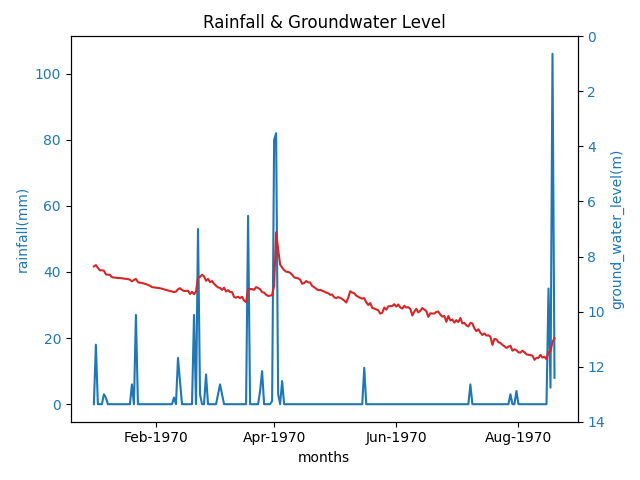
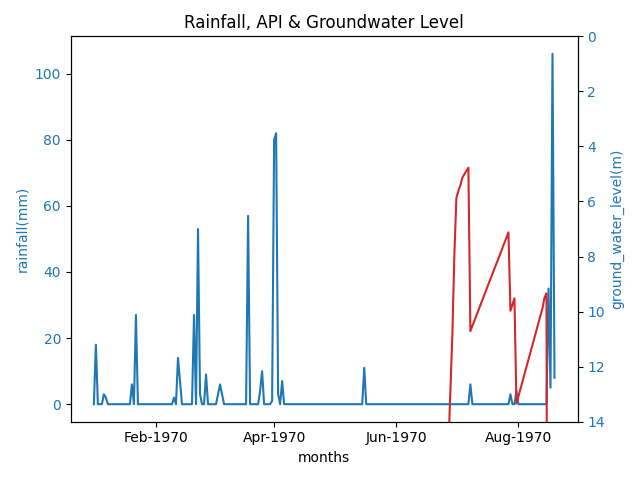
succesfully coded parallel

diff --git a/ML/main.py b/ML/main.py
@@ -1,17 +1,19 @@
 import config
 import multiprocessing
-import preprocess
 from model import Model
+from preprocess import Preprocessing
 from postprocess import Postprocessing
 import pandas as pd
 import numpy as np
-import pickle
+from sklearn.preprocessing import StandardScaler
 
-def run_model1(Preprocessing, Postprocessing):
+def run_model1(Preprocessing, Postprocessing, out_flag):
     
     # Load data
-    data = Preprocessing.load_data('Input/rf_api_90days.csv')
-    print(data)
+    Preprocessing = Preprocessing()
+    cols_to_use = ['date','rainfall','gwl']
+    data = Preprocessing.load_data(config.DATA_FILE, cols_to_use)
+    # print(data)
     
     # Normalize data
     data_scaled, scaler = Preprocessing.normalize_data()
@@ -42,7 +44,7 @@ def run_model1(Preprocessing, Postprocessing):
     predicted = predicted.reshape(-1, predicted.shape[-1])
     observed = observed.reshape(-1, observed.shape[-1])
     
-    print(observed.shape, predicted.shape)
+    # print(observed.shape, predicted.shape)
     predict_unscaled, observed_unscaled = Postprocessing.inverse_transform_data(predicted, observed)
 
      # Create DataFrame
@@ -52,14 +54,16 @@ def run_model1(Preprocessing, Postprocessing):
     df['gwl_prd'] = predict_unscaled[:, 1]
 
     # Plot data
-    Postprocessing.plot_data(df, 'Rainfall & Groundwater Level', 'months', 'rainfall(mm)', 'ground_water_level(m)', (14, 0))
+    Postprocessing.plot_data(df, 'Rainfall & Groundwater Level', 'months', 'rainfall(mm)', 'ground_water_level(m)', (14, 0), str(out_flag))
 
-def run_model2(Preprocessing, Postprocessing):
+def run_model2(Preprocessing, Postprocessing, out_flag):
     
     # Load data
-    data_with_date = Preprocessing.load_data(config.DATA_FILE)
+    # Preprocessing = Preprocessing()
+    cols_to_use= ['date','rainfall','gwl','api']
+    data_with_date = Preprocessing.load_data(config.DATA_FILE, cols_to_use)
     data = data_with_date[['rainfall', 'api', 'gwl']]
-    print(data)
+    # print(data)
 
     # Normalize data
     data_scaled,scaler = Preprocessing.normalize_data()
@@ -79,17 +83,26 @@ def run_model2(Preprocessing, Postprocessing):
 
     # Make predictions
     test_predict = lstm.model.predict(test_X)
-    test_predict = np.reshape(test_predict, test_X.shape)
-    predicted = np.array((test_X, test_predict)).T
+    
+    # Combine test_X and test_predict_reshaped
+    test_X = np.reshape(test_X,(test_X.shape[0],test_X.shape[1]))
+    # print(test_X.shape)
+    predicted = np.concatenate((test_X, test_predict), axis=1)
+    # print(predicted.shape)
 
     # Inverse transform data
-    Postprocessing = Postprocessing(scaler)
-    test_Y= np.reshape(test_Y,test_X.shape)
-    observed = np.array((test_X, test_Y)).T
+    # Postprocessing = Postprocessing(scaler)
+    test_Y = np.reshape(test_Y, (test_X.shape[0], 1))
+    # print(test_Y.shape)
     
-    predicted = predicted.reshape(-1, predicted.shape[-1])
-    observed = observed.reshape(-1, observed.shape[-1])
-    
+    # Combine test_X and test_Y_reshaped
+    observed = np.concatenate((test_X, test_Y), axis=1)
+    # print(observed.shape)
+
+    # Reshape predicted and observed arrays
+    # predicted = predicted.reshape(-1, predicted.shape[-1])
+    # observed = observed.reshape(-1, observed.shape[-1])
+
     print(observed.shape, predicted.shape)
     predict_unscaled,observed_unscaled = Postprocessing.inverse_transform_data(predicted,observed)
 
@@ -102,13 +115,14 @@ def run_model2(Preprocessing, Postprocessing):
     df.index = data.index[Preprocessing.train_size:]
 
     # Plot data
-    Postprocessing.plot_data(df, 'Rainfall, API & Groundwater Level', 'months', 'rainfall(mm)', 'ground_water_level(m)')
+    Postprocessing.plot_data(df, 'Rainfall, API & Groundwater Level', 'months', 'rainfall(mm)', 'ground_water_level(m)',(14,0), str(out_flag))
 
 if __name__ == '__main__':
-    Preprocessing = preprocess.Preprocessing(config.DATA_FILE)
-    #run_model1(Preprocessing, Postprocessing)
-    run_model2(Preprocessing, Postprocessing)
+    # run_model1(Preprocessing, Postprocessing)
+    # run_model2(Preprocessing, Postprocessing)
     
-"""  with multiprocessing.get_context('spawn').Pool(2) as executor:
-        executor.starmap(run_model1, [(Preprocessing,)])
-        executor.starmap(run_model2, [(Preprocessing,)]) """
+    with multiprocessing.get_context('spawn').Pool(4) as executor:
+        executor.starmap(run_model1, [(Preprocessing,Postprocessing, 1), (Preprocessing, Postprocessing, 2)])
+        # executor.starmap(run_model2, [(Preprocessing,Postprocessing, 2)])
+        # executor.starmap(run_model1, [(Preprocessing,Postprocessing, 3)])
+        # executor.starmap(run_model2, [(Preprocessing,Postprocessing, 4)])  

diff --git a/ML/preprocess.py b/ML/preprocess.py
@@ -4,18 +4,18 @@ from sklearn.preprocessing import StandardScaler
 
 class Preprocessing:
     
-    def __init__(self, data_file):
+    def __init__(self):
         """
         Initializes the class with the given data file.
         """
-        self.data = self.load_data(data_file)
+        pass
 
-    def load_data(self,data_file):
+    def load_data(self, data_file, cols_to_use):
         """
         Loads the data from the given file and returns it as a pandas DataFrame.
         """
-        data = pd.read_csv(data_file, index_col='date', usecols=['date','rainfall','gwl','api'])
-        return data
+        self.data = pd.read_csv(data_file, index_col='date', usecols = cols_to_use)
+        return self.data
 
     def normalize_data(self):
         """

diff --git a/ML/postprocess.py b/ML/postprocess.py
@@ -17,7 +17,7 @@ class Postprocessing:
         observed_unscaled = self.scaler.inverse_transform(observed)
         return predict_unscaled, observed_unscaled
 
-    def plot_data(self, df, title, xlabel, ylabel1, ylabel2, ylim2):
+    def plot_data(self, df, title, xlabel, ylabel1, ylabel2, ylim2, out_path):
         """
         Plots the given data using matplotlib.
         """
@@ -40,5 +40,5 @@ class Postprocessing:
         plt.title(title)
         fig.tight_layout()  # otherwise the right y-label is slightly clipped
         #save as 2 different files
-        plt.savefig('Output/plot/lstm_rf_gwl.png')
+        plt.savefig(f'Output/plot/{out_path}.png')
         plt.show()

diff --git a/ML/model.py b/ML/model.py
@@ -19,4 +19,4 @@ class Model:
         """
         Trains the given model on the given training data.
         """
-        self.model.fit(train_X, train_Y, epochs=num_epochs, batch_size=batch_size, verbose=2)
+        self.model.fit(train_X, train_Y, epochs=num_epochs, batch_size=batch_size, verbose=0)

diff --git a/ML/README.md b/ML/README.md
@@ -1,7 +1,11 @@
-Groundwater Level Prediction - ML Model Testing and Validation 
-This repository contains code for testing and validating three machine learning models under the recurrent neural network (RNN) architecture: Long Short-Term Memory (LSTM), Bidirectional LSTM, and Attention LSTM. The models are used to predict groundwater levels based on rainfall and other derived variables. The goal is to understand how rainfall and derived variables  affect groundwater levels, which can be valuable for flood prediction and flood inundation mapping using multiple input options.
+# Groundwater Level Prediction
 
-### Input Data
+## ML Model Testing and Validation
+
+This repository contains code for testing and validating three machine learning models under the recurrent neural network (RNN) architecture: Long Short-Term Memory (LSTM), Bidirectional LSTM, and Attention LSTM. The models are used to predict groundwater levels based on rainfall and other derived variables. The goal is to understand how rainfall and derived variables affect groundwater levels, which can be valuable for flood prediction and flood inundation mapping using multiple input options.
+
+## Input Data
+
 + Rainfall data
 + Multiple APIs (5, 10, 60, 90, 120, 240 days)
 + Effective rainfall
@@ -9,24 +13,28 @@ This repository contains code for testing and validating three machine learning 
 + Summer decay factor
 + Effective rainfall
 
-### Normalization
+## Normalization
+
 + Standard scalar
 + Log scalar
 
-### Model performance metrics
+## Model performance metrics
+
 + The model performance metrics used in this project include:
 + Training Accuracy: Measures how well the model fits the training data. It is calculated as 1 minus the RMSE on the training set, converted to a percentage.
 + Testing Accuracy: Evaluates the model's performance on unseen data. Similar to training accuracy, it is calculated as 1 minus the RMSE on the testing set, converted to a percentage.
 + Test Score (RMSE): Computes the RMSE on a new test set (features, labels) to quantify the difference between predicted and actual values. Lower RMSE indicates better model performance.
 
-### Parallelisation
-+ Models can be run simultaneously to speed up the process. This is  currently achieved using multiprocessing module in python
+## Parallelization
 
-#### For the theoretical background and methodology, refer to the link
-https://www.geeksforgeeks.org/long-short-term-memory-lstm-rnn-in-tensorflow/
-https://www.exxactcorp.com/blog/Deep-Learning/5-types-of-lstm-recurrent-neural-networks-and-what-to-do-with-them
++ Models can be run simultaneously to speed up the process. This is currently achieved using a multiprocessing module in Python.
 
-### Attribution
+### For the theoretical background and methodology, refer to the link
+
+<https://www.geeksforgeeks.org/long-short-term-memory-lstm-rnn-in-tensorflow/>
+<https://www.exxactcorp.com/blog/Deep-Learning/5-types-of-lstm-recurrent-neural-networks-and-what-to-do-with-them>
+
+## Attribution
+
 This code is referred from
-https://github.com/ROHITHKUMARN/CloudComputing/blob/master/Flood-Prediction-Model/flood_detection_lstm_model.ipynb](https://github.com/ROHITHKUMARN/CloudComputing/blob/master/Flood-Prediction-Model/flood_detection_lstm_model.ipynb)
-
+[https://github.com/ROHITHKUMARN/CloudComputing/blob/master/Flood-Prediction-Model/flood_detection_lstm_model.ipynb](https://github.com/ROHITHKUMARN/CloudComputing/blob/master/Flood-Prediction-Model/flood_detection_lstm_model.ipynb)
